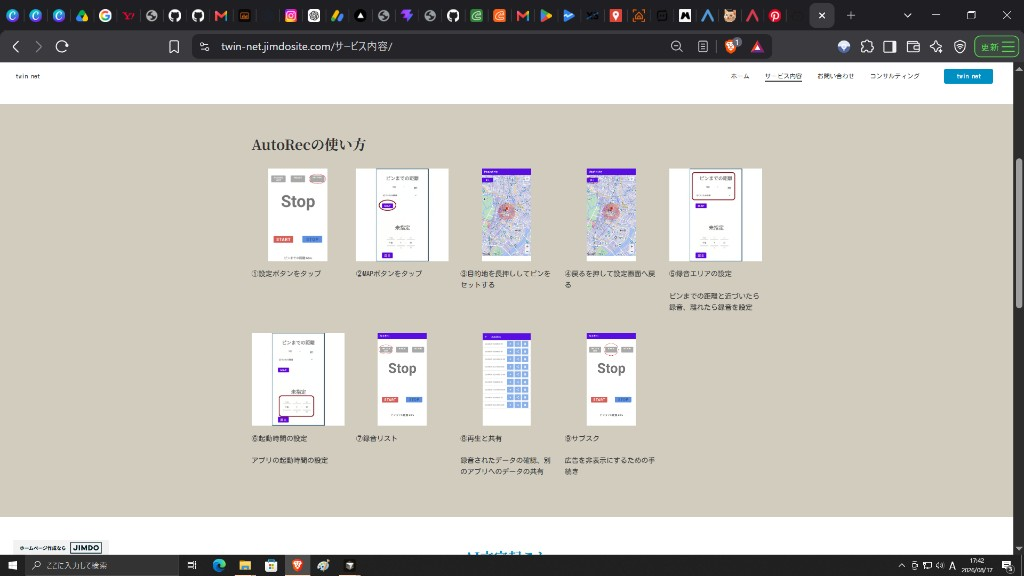
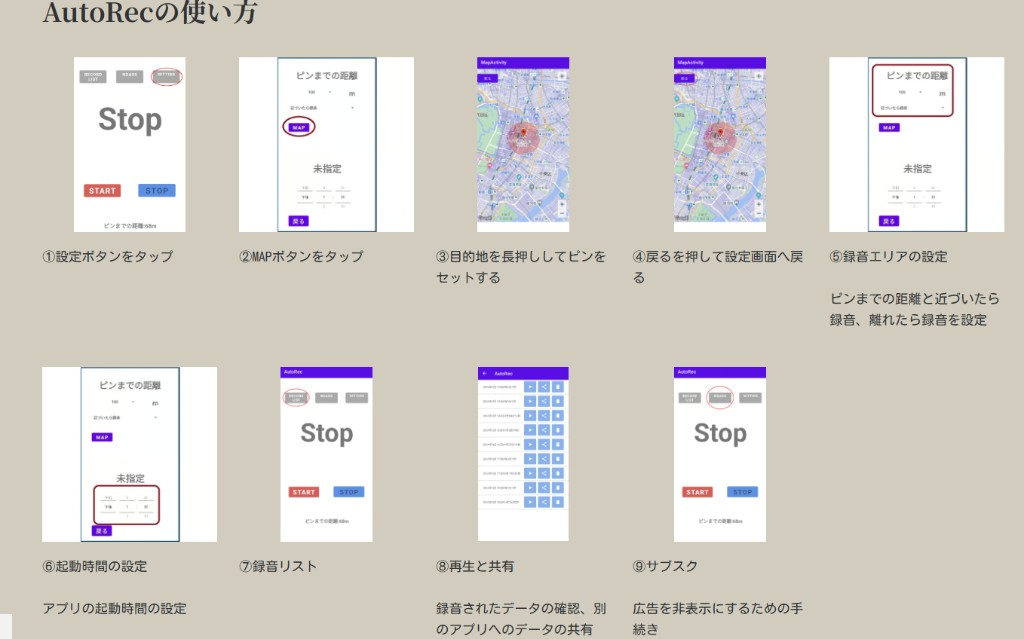
Update AutoRec how-to image, enlarge display, and add GPS notes.

diff --git a/autorec-how-to.html b/autorec-how-to.html
@@ -30,16 +30,25 @@
   <main>
     <section class="page-hero"><div class="container"><h1>AutoRecの設定方法</h1></div></section>
     <section class="page-content">
-      <div class="container content-narrow">
+      <div class="container howto-page">
         <p>
           GPS録音アプリ「AutoRec」の基本的な設定手順です。地図で録音エリアを指定し、近づいたら録音開始・離れたら録音停止といった使い方ができます。
         </p>
 
-        <figure class="blog-article__figure blog-article__figure--wide">
-          <img src="images/autorec/how-to-overview.png" alt="AutoRecの使い方 全体の手順図" width="1200" height="1600" loading="eager">
+        <figure class="howto-guide">
+          <img src="images/autorec/how-to-overview.png" alt="AutoRecの使い方 全体の手順図" width="1600" height="900" loading="eager">
           <figcaption>AutoRecの使い方（全体）</figcaption>
         </figure>
 
+        <div class="info-box howto-notes">
+          <h3>位置情報について</h3>
+          <ul class="styled-list">
+            <li>Stand-By中は5分に1回、Recording中は15分に1回、現在位置を確認します。</li>
+            <li>位置情報の取得間隔は、端末やOSの状態により前後する場合があります。</li>
+          </ul>
+        </div>
+
+        <div class="howto-body">
         <h2>GPSによる自動録音の設定</h2>
 
         <ol class="howto-steps">
@@ -126,6 +135,7 @@
         <div class="text-center page-actions">
           <a href="recording-app.html" class="btn btn-primary">GPS録音アプリのページへ</a>
           <a href="contact.html" class="btn btn-secondary">お問い合わせ</a>
+        </div>
         </div>
       </div>
     </section>

diff --git a/css/style.css b/css/style.css
@@ -740,6 +740,51 @@ body.nav-open {
 }
 
 /* How-to steps */
+.howto-page {
+  max-width: 1100px;
+}
+
+.howto-body {
+  max-width: 760px;
+  margin: 0 auto;
+}
+
+.howto-guide {
+  margin: 1.75rem 0 1.5rem;
+}
+
+.howto-guide img {
+  display: block;
+  width: 100%;
+  max-width: 1100px;
+  height: auto;
+  margin: 0 auto;
+  border-radius: var(--radius);
+  border: 1px solid var(--color-border);
+  background: var(--color-bg-alt);
+}
+
+.howto-guide figcaption {
+  margin-top: 0.75rem;
+  text-align: center;
+  font-size: 0.95rem;
+  color: var(--color-text-light);
+}
+
+.howto-notes {
+  margin-bottom: 2.5rem;
+}
+
+.howto-notes h3 {
+  font-size: 1.1rem;
+  color: var(--color-primary);
+  margin: 0 0 0.75rem;
+}
+
+.howto-notes .styled-list {
+  margin-bottom: 0;
+}
+
 .howto-steps {
   list-style: none;
   margin: 0 0 2rem;
